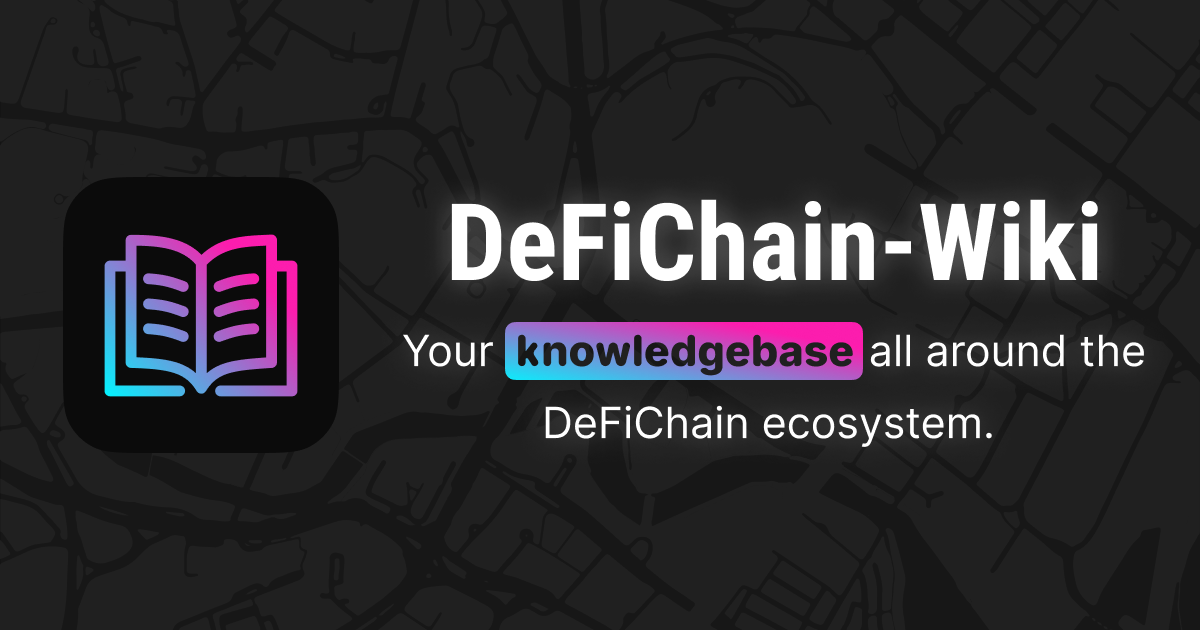
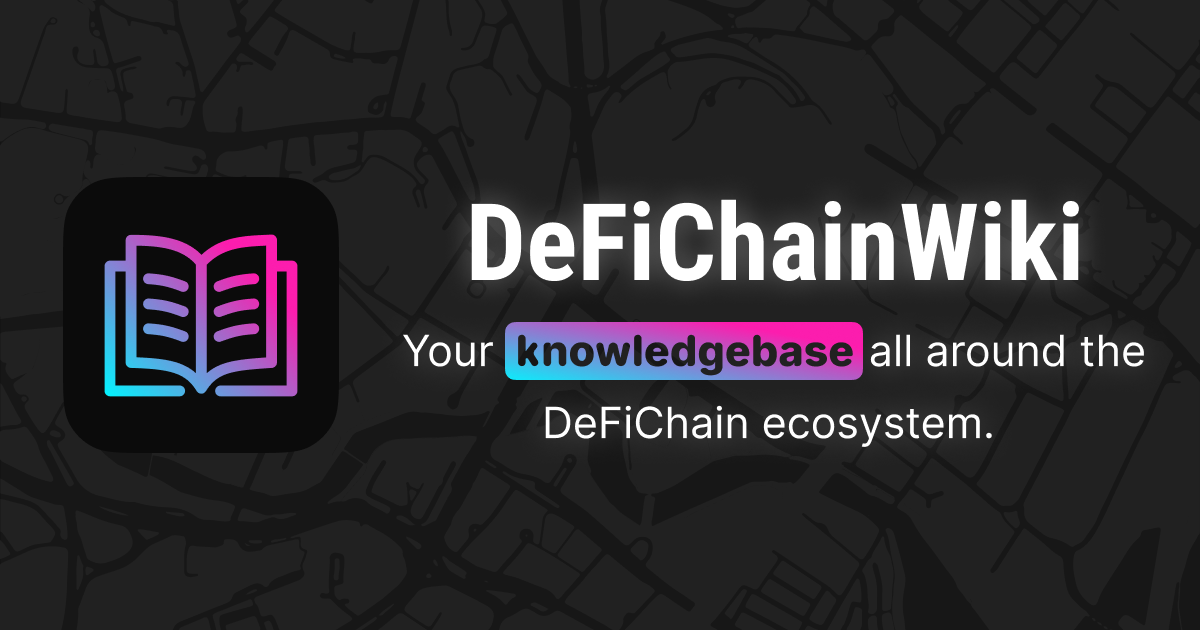
Rename project
From "defichain-wiki" to "defichainwiki".

Changed region(s): [[0.37, 0.3016, 0.925, 0.4524]]

diff --git a/docusaurus.config.js b/docusaurus.config.js
@@ -3,16 +3,16 @@ const darkCodeTheme = require("prism-react-renderer/themes/dracula");
 
 /** @type {import('@docusaurus/types').Config} */
 const config = {
-  title: "DeFiChain-Wiki",
+  title: "DeFiChainWiki",
   url: "https://0ptim.github.io",
-  baseUrl: "/DeFiChain-Wiki/",
+  baseUrl: "/DeFiChainWiki/",
   onBrokenLinks: "throw",
   onBrokenMarkdownLinks: "throw",
   favicon: "img/Favicon.ico",
 
   // GitHub pages deployment config.
   organizationName: "0ptim",
-  projectName: "DeFiChain-Wiki",
+  projectName: "DeFiChainWiki",
   deploymentBranch: "gh-pages",
   trailingSlash: false,
 
@@ -33,7 +33,7 @@ const config = {
           sidebarPath: require.resolve("./sidebars.js"),
           // Please change this to your repo.
           // Remove this to remove the "edit this page" links.
-          editUrl: "https://github.com/0ptim/DeFiChain-Wiki/tree/main/",
+          editUrl: "https://github.com/0ptim/DeFiChainWiki/tree/main/",
           editLocalizedFiles: true,
           showLastUpdateTime: true,
         },
@@ -50,7 +50,7 @@ const config = {
       announcementBar: {
         id: 'improve_the_wiki',
         content:
-          'We are looking for community members which help improve our wiki. <a href="/DeFiChain-Wiki/docs/auto/Sharing_is_caring">Read more</a>',
+          'We are looking for community members which help improve our wiki. <a href="/DeFiChainWiki/docs/auto/Sharing_is_caring">Read more</a>',
         backgroundColor: '#00F6FF',
         textColor: '#091E42',
         isCloseable: true,
@@ -63,7 +63,7 @@ const config = {
         },
       },
       navbar: {
-        title: "DeFiChain-Wiki",
+        title: "DeFiChainWiki",
         logo: {
           alt: "DeFiChain Wiki Logo",
           src: "img/logo.svg",
@@ -91,7 +91,7 @@ const config = {
             position: "right",
           },
           {
-            href: "https://github.com/0ptim/DeFiChain-Wiki",
+            href: "https://github.com/0ptim/DeFiChainWiki",
             position: "right",
             className: "header-github-link",
             "aria-label": "GitHub repository",
@@ -160,7 +160,7 @@ const config = {
             items: [
               {
                 label: "GitHub (This wiki)",
-                href: "https://github.com/0ptim/DeFiChain-Wiki",
+                href: "https://github.com/0ptim/DeFiChainWiki",
               },
               {
                 label: "GitHub (DeFiChain)",

diff --git a/docs/auto/Sharing_is_caring.md b/docs/auto/Sharing_is_caring.md
@@ -5,7 +5,7 @@ description: TODO - Short description of this page.
 
 ## Hey DeFiChain Community, {#hey-defichain-community}
 
-have you ever wished you had a central place for all the important information and facts about DeFiChain? A lot of information is distributed on Reddit, Github Telegram and Twitter. But it's not always easy to find all the information you need quickly and in the most up-to-date form. But there is good news. As you may already know, the DeFiChain community has its own wiki at defichain-wiki.com, which can be maintained and expanded as a community project by all of us. The less good news is, our DeFiChain Wiki needs attention and care.
+have you ever wished you had a central place for all the important information and facts about DeFiChain? A lot of information is distributed on Reddit, Github Telegram and Twitter. But it's not always easy to find all the information you need quickly and in the most up-to-date form. But there is good news. As you may already know, the DeFiChain community has its own wiki at defichainwiki.com, which can be maintained and expanded as a community project by all of us. The less good news is, our DeFiChain Wiki needs attention and care.
 
 Here we are in demand as a community. Any community member can sign up and help make our DeFiChain Wiki the all-encompassing knowledge and information database. Help and create new articles about the DeFiChain. Updates existing articles or translates them into other languages. Linking pages to bring order and structure to the wiki so that information can be found quickly and easily.
 
@@ -134,4 +134,4 @@ Any funds made available upon approval will be distributed to the contributors. 
 *21.09.2022 - Ferhat - 1150 Words - 25(x2)[^1] DFI*
 > Vaults and Loans (Turkish)
 
-[^1]: DeFiChain-Wiki Double Decker Party: https://twitter.com/Kassius84/status/1566096160791711746?s=20&t=-bT7oDYRKqP8hIAlQSSYCA
+[^1]: DeFiChainWiki Double Decker Party: https://twitter.com/Kassius84/status/1566096160791711746?s=20&t=-bT7oDYRKqP8hIAlQSSYCA

diff --git a/README.md b/README.md
@@ -1,16 +1,16 @@
-[![Deploy to GitHub Pages](https://github.com/0ptim/DeFiChain-Wiki/actions/workflows/deploy.yml/badge.svg)](https://github.com/0ptim/DeFiChain-Wiki/actions/workflows/deploy.yml)
+[![Deploy to GitHub Pages](https://github.com/0ptim/DeFiChainWiki/actions/workflows/deploy.yml/badge.svg)](https://github.com/0ptim/DeFiChainWiki/actions/workflows/deploy.yml)
 
-# DeFiChain-Wiki
-> https://0ptim.github.io/DeFiChain-Wiki/
+# DeFiChainWiki
+> https://0ptim.github.io/DeFiChainWiki/
 
-DeFiChain-Wiki, your knowledgebase all around the DeFiChain ecosystem.
+DeFiChainWiki, your knowledgebase all around the DeFiChain ecosystem.
 
 Maintained by the DeFiChain community. ❤
 
 ## Contribute
 Help us build out the wiki. Translate existing pages, add new ones, correct mistakes, everything which helps is appreciated.
 
-▶ [Here's](https://0ptim.github.io/DeFiChain-Wiki/docs/auto/Contribute) a quick guide on how to edit pages.
+▶ [Here's](https://0ptim.github.io/DeFiChainWiki/docs/auto/Contribute) a quick guide on how to edit pages.
 
 > The wiki is built using [Docusaurus 2](https://docusaurus.io/), a modern static website generator.  
 > The search functionality is implemented with [Algolia](https://www.algolia.com/).

diff --git a/i18n/de/docusaurus-plugin-content-docs/current/auto/Payout_DFI_in_Euro.md b/i18n/de/docusaurus-plugin-content-docs/current/auto/Payout_DFI_in_Euro.md
@@ -14,11 +14,11 @@ Zum aktuellen Zeitpunkt die unkomplizierteste Methode, DFI nach EUR umzutauschen
 1.  <https://dfx.swiss/>
 2.  Smartphone-App installieren
 3.  Anweisungen zur Einrichtung der Wallet befolgen
-4.  [Schritt-für-Schritt Anleitung zum DFI-Verkauf](https://defichain-wiki.com/wiki/DFX_FAQ#Schritt-f.C3.BCr-Schritt_Anleitung_-_Verkaufen_bei_DFX)
+4.  [Schritt-für-Schritt Anleitung zum DFI-Verkauf](./DFX_FAQ.md#Schritt-f.C3.BCr-Schritt_Anleitung_-_Verkaufen_bei_DFX)
 5.  DFI an die Deposit-Adresse senden
 6.  Empfangene DFI-Token werden automatisch in EUR konvertiert
 7.  Der konvertierte Betrag wird auf Bankkonto überwiesen (tägliche Überweisungen)
-8.  [Hinweise zu Limits und Verifizierungsanforderungen](https://defichain-wiki.com/wiki/DFX_FAQ#Verkaufsprozess:_DeFiChain_Assets_-.3E_FIAT) beachten
+8.  [Hinweise zu Limits und Verifizierungsanforderungen](./DFX_FAQ.md#Verkaufsprozess:_DeFiChain_Assets_-.3E_FIAT) beachten
 
 ###### Vorteile {#vorteile}
 

diff --git a/docs/auto/Services.md b/docs/auto/Services.md
@@ -130,14 +130,14 @@ See what's going on on your Masternodes without having the DeFiChain Wallet desk
 
 So, you can check the activities of your masternodes right from your smartphone or any other computer with internet access.
 
-Have a look on the corresponding [DeFiChain-Wiki page of the Masternode Monitor](./DeFiChain-Masternode-Monitor.md).
+Have a look on the corresponding [DeFiChainWiki page of the Masternode Monitor](./DeFiChain-Masternode-Monitor.md).
 
 https://www.defichain-masternode-monitor.com/
 
 ![](../media/services_EN_13_Defichain-masternode-monitor-moackup.png)
 
-### DeFiChain-Wiki
-https://defichain-wiki.com/
+### DeFiChainWiki
+https://defichainwiki.com/
 
 ![](../media/services_EN_14_Wiki.png)
 
